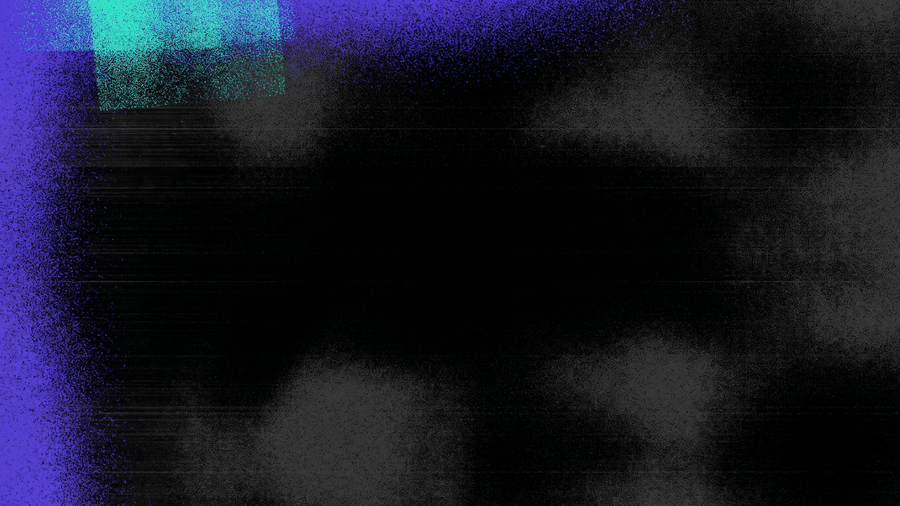
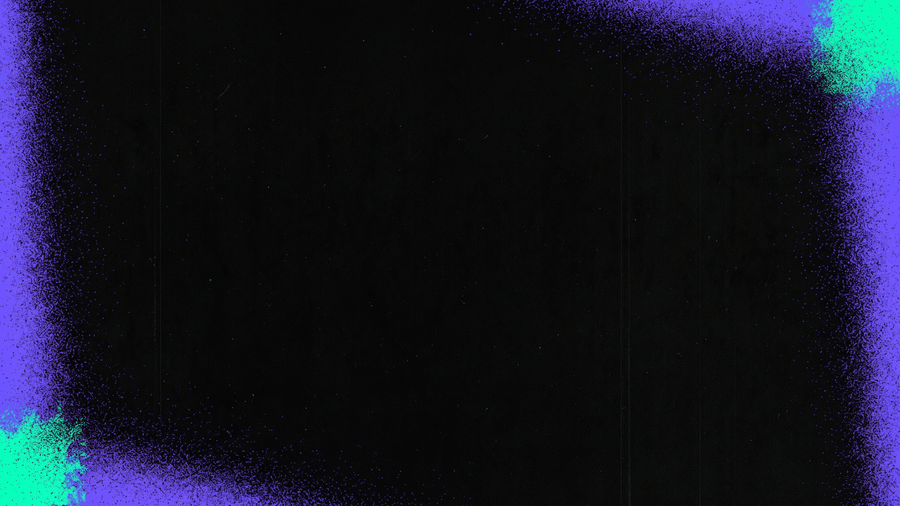
Photocopy Grain: sample from the rewritten brief, no grey patches

diff --git a/CLAUDE.md b/CLAUDE.md
@@ -206,7 +206,7 @@ To see deploy status: https://railway.com/project/8979a89d-75ee-40f7-a47f-7a5d7e
 - Owner asked for more AI backdrop styles for the Interview Cover Studio: all on a black base (no light backgrounds), different from the existing ones, ten samples to approve or deny. **Result: only `bd03_particle_wave` (Particle Wave, a rolling surface of tiny points of light) was approved and is live.** Denied and deleted the same day: Black Silk, Black Marble, Paper Cut Layers, Black Dunes, City Bokeh, Blind Emboss, Oil Ripple, Machined Fins, Obsidian. Do not offer those again; the owner's taste here runs to clean digital light on black, not photographed materials (my reading of one pick out of ten, not something the owner said).
 - **Second batch (2026-11-23), verdict 2026-11-24: `bd16_dither_bloom` (Dither Bloom) and `bd17_photocopy_grain` (Photocopy Grain) approved and live** ("16 and 17 are ok"). Denied and deleted: Folded Planes, Edge-lit Slabs, Column Field, Sliced Forms, Halftone Fade, Slat Wall, Lit Alcoves, Stepped Frame. Do not offer those again. So three styles are in the Studio's "Black backdrops" group: Particle Wave, Dither Bloom, Photocopy Grain.
 - **What the owner has said about backdrops, in their words.** First batch: a "stock wallpaper look"; "I dont want light in the middle of them... like a spotlight look is bad and super photographic is bad". Second batch: "I dont want a floor or a plane where there is a reflection of the items in the scene"; on Photocopy Grain, "I dont like the light grey patches". The brief carries a rule for each: "NO LIGHT IN THE CALM AREA", "NO FLOOR AND NO REFLECTIONS", a colour line that allows only black and near-black charcoal beside the two accents, and `backdrop.kind` picks a quality line (`BACKDROP_QUALITY`) that asks for a stylised render or flat print, not a photograph. Never write a floor, a ground plane, a mirror surface or grey patches into a new brief. Both survivors of the second batch are flat print textures (kind `print`); every 3D form and every studio set was turned down (my reading: flat, two-dimensional graphics on black are the safe direction; the owner did not say that).
-- Photocopy Grain's brief was rewritten on 2026-11-24 to remove the grey patches (solid even toner, fine near-black grain only). Its sample picture is still the first generation, which shows the patches, until the owner approves one more generation.
+- Photocopy Grain's brief was rewritten on 2026-11-24 to remove the grey patches (solid even toner, fine near-black grain only). One generation approved by the owner on 2026-11-24 confirmed it (colourless areas lighter than near-black fell from 11 percent of the frame to 0.01 percent) and is now its sample picture. In that sample the ink runs round all four edges, not two; the owner has not commented on that yet.
 - A backdrop-only style is an entry at the end of the style list in `src/services/styleCatalogService.js` with `backdrop: { look, scene }` instead of a logo template. `getBackdropPrompt` sends it to `_blackBackdropPrompt`: the brief always starts with "Abstract editorial BACKDROP plate" (that opening is how `controlNetService` knows not to scrub it), the base is ALWAYS pure black whatever `bgColor` the request carries, and `{{A1}}` / `{{A2}}` in the scene are the two accent colours (the request's `elementColor` / `accentLightColor`, else the style's `defaultColors`). A `prompt()` is made for such entries in the constructor so older callers still work.
 - Flags: `internal: true` keeps them out of the Cover Generator picker, its category chips and the article style rotation for good. `backdropOnly: true` is what the Studio's AI backdrop tab lists (under "Black backdrops"). `pending: true` hides a style there too: use it for a new style until the owner has approved its sample.
 - The sample picture `style-examples/<id>.png` (900x506) is the real first generation of the style with its default colours and centre clear space, made through the live `generate-async` route. Ask before generating samples: each one is a paid generation (the ten on 2026-11-23 were approved beforehand).
